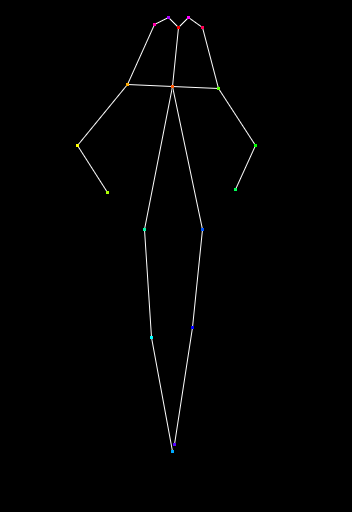
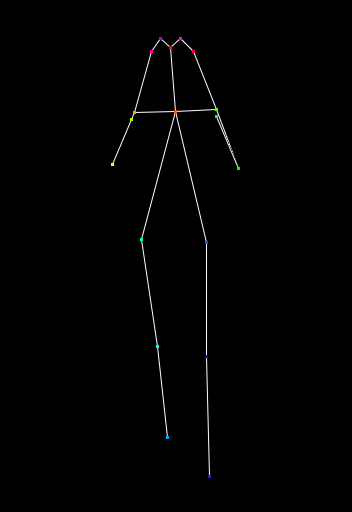
512 no background + agmentattion

diff --git a/datasets/custom_dataset.py b/datasets/custom_dataset.py
@@ -56,7 +56,8 @@ class PairDataset(data.Dataset):
         self.crop_size = opt.crop_size
         annotation_index_csv = os.path.join(self.dataroot, 'annotation_index_qanet.csv')
         annotation_pairs_csv = os.path.join(self.dataroot, 'annotation_pairs_qanet.csv')
-
+        # annotation_index_csv = os.path.join(self.dataroot, 'annotation_index.csv')
+        # annotation_pairs_csv = os.path.join(self.dataroot, 'annotation_pairs.csv')
         self.do_flip=True
 
         # group;pair1;pair2
@@ -77,8 +78,8 @@ class PairDataset(data.Dataset):
     
     def __getitem__(self, index):
         from_name, to_name = self.pairs_df.iloc[index][['from','to']].to_list()
-        from_img, from_kpt, from_parse = self.load_data(from_name)
-        to_img, to_kpt, to_parse = self.load_data(to_name)
+        from_img, from_kpt, from_parse = self.load_data(from_name, do_augm=True)
+        to_img, to_kpt, to_parse = self.load_data(to_name, do_augm=True)
         if self.do_flip:
             make_flip = random.random() > 0.5
             if make_flip:
@@ -90,20 +91,26 @@ class PairDataset(data.Dataset):
                 to_parse = torch.flip(to_parse, [1])
                 to_kpt = torch.flip(to_kpt, [2])[[0,1,5,6,7,2,3,4,11,12,13,8,9,10,15,14,17,16],...]
         # Image.fromarray((np.transpose(from_img,(1,2,0)).numpy()*127+127).astype(np.uint8),'RGB').save('image.jpg');Image.fromarray(from_parse.numpy()*20).save('maskk.png')
+        # Image.fromarray((from_parse.numpy()*20).astype(np.uint8)).save('seg.png')
+        # Image.fromarray(_view_pose(from_kpt)).save('pose.png')
+        # Image.fromarray((from_img.permute([1,2,0]).numpy()*127 + 127).astype(np.uint8)).save('img.png')
+
         return from_img, from_kpt, from_parse, to_img, to_kpt, to_parse, index #torch.Tensor([0])
 
 
-    def load_data(self, name):
+    def load_data(self, name, do_augm=False):
         seg = np.array(Image.open(name + ".seg_qanet.render.png"))
         img = cv2.imread(name)[:,:,[2,1,0]]
         pose_y_str,pose_x_str = self.index_df.loc[name][['keypoints_y', 'keypoints_x']].to_list()
         pose_array = pose_utils.load_pose_cords_from_strings(pose_y_str, pose_x_str)
-        affine_transform = PairDataset._get_affine_stransform(self.crop_size, img.shape[0],img.shape[1])
+        affine_transform = PairDataset._get_affine_stransform(self.crop_size, img.shape[0],img.shape[1], do_augm)
 
         dstSize = (self.crop_size[1],self.crop_size[0])
         resized_img = cv2.bilateralFilter(cv2.warpAffine(img, affine_transform[:2],dstSize, 
             flags=cv2.INTER_AREA,
             borderMode=cv2.BORDER_CONSTANT, borderValue=(0,0,0)),d=5,sigmaColor=15, sigmaSpace=15).astype(np.uint8)
+        Image.fromarray(resized_img).save('img.png')
+
         # Image.fromarray(cv2.bilateralFilter(cv2.warpAffine(img, affine_transform[:2],dstSize, 
         #     flags=cv2.INTER_AREA,
         #     borderMode=cv2.BORDER_CONSTANT, borderValue=(0,0,0)),d=5,sigmaColor=11, sigmaSpace=24).astype(np.uint8),'RGB').save('image3.jpg')
@@ -132,13 +139,19 @@ class PairDataset(data.Dataset):
         # cv2.imwrite('pose.jpg',np.sum(pose, axis=-1)*127)
         pose = np.transpose(pose,(2, 0, 1))
         # resized_img = np.transpose(resized_img,(2, 0, 1))
+
+
+        # augmenation remove bg 
+        resized_img =_remove_bg(resized_img, (redused_seg==SEG.ID['background']).astype(np.uint8))
+
         img_tensor, pose_tensor, seg_tensor = self.transforms(resized_img), torch.Tensor(pose), torch.Tensor(redused_seg)
         # Image.fromarray((img_tensor.permute([1,2,0]).numpy()*127 + 127).astype(np.uint8)).save('img.png')
-        # Image.fromarray((torch.flip(img_tensor, [2]).permute([1,2,0]).numpy()*127 + 127).astype(np.uint8)).save('img_flip.png')
+        # # Image.fromarray((torch.flip(img_tensor, [2]).permute([1,2,0]).numpy()*127 + 127).astype(np.uint8)).save('img_flip.png')
         # Image.fromarray((seg_tensor.numpy()*20).astype(np.uint8)).save('seg.png')
-        # Image.fromarray(( torch.flip(seg_tensor, [1]).numpy()*20).astype(np.uint8)).save('seg_flip.png')
+        # # Image.fromarray(( torch.flip(seg_tensor, [1]).numpy()*20).astype(np.uint8)).save('seg_flip.png')
         # Image.fromarray(_view_pose(pose_tensor)).save('pose.png')
-        # Image.fromarray(_view_pose(torch.flip(pose_tensor, [2])[[0,1,5,6,7,2,3,4,11,12,13,8,9,10,15,14,17,16],...])).save('pose_flip.png')
+        # # Image.fromarray(_view_pose(torch.flip(pose_tensor, [2])[[0,1,5,6,7,2,3,4,11,12,13,8,9,10,15,14,17,16],...])).save('pose_flip.png')
+
         return img_tensor, pose_tensor, seg_tensor
 
     @staticmethod
@@ -150,35 +163,17 @@ class PairDataset(data.Dataset):
         return texture_mask
         
     @staticmethod
-    def _get_affine_stransform(crop_size, img_height, img_width):
+    def _get_affine_stransform(crop_size, img_height, img_width, do_augm = False):
         fit_height, fit_width = crop_size[0], crop_size[1]
         center = img_height * 0.5 + 0.5, img_width * 0.5 + 0.5
-        do_flip, angle, shift, scale = 0, 0, (0,0), 1 #np.random.uniform(low=0.8, high=1.1)        
+        do_flip, angle, shift, scale = 0, 0, [0,0], 1
+        # heavy augmentation
+        if do_augm:
+            do_flip, angle, shift, scale = 0, 0, [np.random.uniform(low=-0.05, high=0.05),0], np.random.uniform(low=0.8, high=1.2) 
+            # do_flip, angle, shift, scale = 0, 0, [0.1,0], 1.2       
         affine_matrix = PairDataset.get_affine_matrix(center=center, fit=(fit_height, fit_width), angle=angle, translate=shift,
                 scale=scale, flip=do_flip)
         return affine_matrix
-
-
-    # def getRandomAffineParam(self):
-    #     if self.opt.angle is not None:
-    #         angle = np.random.uniform(low=self.opt.angle[0], high=self.opt.angle[1])
-    #     else:
-    #         angle = 0
-    #     if self.opt.scale is not None:
-    #         scale   = np.random.uniform(low=self.opt.scale[0], high=self.opt.scale[1])
-    #     else:
-    #         scale=1
-    #     if self.opt.shift is not None:
-    #         shift_x = np.random.uniform(low=self.opt.shift[0], high=self.opt.shift[1])
-    #         shift_y = np.random.uniform(low=self.opt.shift[0], high=self.opt.shift[1])
-    #     else:
-    #         shift_x=0
-    #         shift_y=0
-    #     if self.opt.flip:
-    #         do_flip = np.random.choice([False, True])
-    #     else:
-    #         do_flip = False
-    #     return do_flip, angle, (shift_x,shift_y), scale
 
 
     @staticmethod
@@ -193,8 +188,9 @@ class PairDataset(data.Dataset):
         FIT_scale = np.float32([[fit_scale, 0, 0], [0, fit_scale, 0]])
         
         M_scale = np.float32([[scale, 0, 0], [0, scale, 0]])
-
-        M_translate = np.float32([[1, 0, translate[0]*fit[0]], [0, 1, translate[1]*fit[1]]])
+        # 0.02 fix coef for bad segmentation
+        translate[1] = (1-2* fit_scale* center[0]*scale / fit[0])+0.02
+        M_translate = np.float32([[1, 0, translate[0]*fit[1]], [0, 1, translate[1]*fit[0]]])
         # M_translate = np.float32([[1, 0, -(center[1]*2*fit_scale - fit[1])*scale], [0, 1, (1-scale) * fit[0]]])
 
         rads = math.radians(angle)
@@ -377,6 +373,10 @@ class VisualDataset(data.Dataset):
         # cv2.imwrite('pose.jpg',np.sum(pose, axis=-1)*127)
         pose = np.transpose(pose,(2, 0, 1))
         # resized_img = np.transpose(resized_img,(2, 0, 1))
+
+        # augmenation remove bg 
+        resized_img =_remove_bg(resized_img, (redused_seg==SEG.ID['background']).astype(np.uint8))
+
         img_tensor, pose_tensor, seg_tensor = self.transforms(resized_img), torch.Tensor(pose), torch.Tensor(redused_seg)
         # Image.fromarray((img_tensor.permute([1,2,0]).numpy()*127 + 127).astype(np.uint8)).save('img.png')
         # Image.fromarray((torch.flip(img_tensor, [2]).permute([1,2,0]).numpy()*127 + 127).astype(np.uint8)).save('img_flip.png')
@@ -417,3 +417,16 @@ def _view_pose(pose):
     coords = map_to_cord(pose.cpu().permute(1,2,0).numpy())
     pose_img = draw_pose_from_cords(coords,(H,W))[0]
     return pose_img
+
+
+def _remove_bg(img, bg_mask, bg_color = [255,249,249]):
+    bg_kernel = (3, 3)
+    # bg_color = [234,230,224]    
+    eroded_mask = cv2.dilate(bg_mask,np.ones(bg_kernel),iterations=1) #Image.fromarray((eroded_mask*255).astype(np.uint8)).save('mask.png')
+    eroded_mask = cv2.morphologyEx(eroded_mask, cv2.MORPH_OPEN, np.ones(bg_kernel, np.uint8))
+    blurred_mask = cv2.GaussianBlur(eroded_mask.astype(np.float),bg_kernel,0) #Image.fromarray((blurred_mask*255).astype(np.uint8)).save('mask.png')
+    # blurred_img = cv2.blur(img.astype(np.float),(5,5),0)  #Image.fromarray((blurred_img).astype(np.uint8)).save('mask.png')
+    bg_img = np.ones_like(img)*bg_color
+    final_img = img * (1-blurred_mask[...,None]) + blurred_mask[...,None] * bg_img
+    # Image.fromarray((final_img ).astype(np.uint8)).save('mask.png')
+    return final_img.astype(np.uint8)

diff --git a/dressing_processor.py b/dressing_processor.py
@@ -15,10 +15,10 @@ import os
 import sys
 sys.path.append(os.path.abspath(os.path.dirname(__file__)))
 os.chdir(os.path.abspath(os.path.dirname(__file__)))
-CUDA_DEVICE= 'cuda:0'
+CUDA_DEVICE= 'cuda:1'
 torch.cuda.set_device(CUDA_DEVICE)
 logging.basicConfig(level = logging.INFO)
-from datasets.custom_dataset import SEG, PairDataset, get_palette
+from datasets.custom_dataset import SEG, PairDataset, get_palette, _view_pose
 from models.customdior_model import CustomDIORModel
 from utils import pose_utils
 
@@ -76,11 +76,12 @@ def get_model_params():
     opt.norm_type = 'instance'; opt.relu_type = 'leakyrelu'
     opt.init_type = 'orthogonal'; opt.init_gain = 0.02; 
     opt.random_rate = 1; opt.perturb = False; opt.warmup=False; opt.verbose = False
-    opt.name = "dior_custom_512_deepfashion"
+    # opt.name = "dior_custom_512_deepfashion_1"
+    opt.name = "dior_custom_512_deepfashion_2_aug_nobg"
     opt.checkpoints_dir = 'checkpoints'; opt.vgg_path = ''; opt.flownet_path = ''; 
     opt.frozen_enc = True; opt.frozen_flownet = True;
     opt.load_iter = 0; opt.epoch = 'latest'
-    opt.gpu_ids = []
+    opt.gpu_ids = [1]
     return opt
 
 # # 256x176 res
@@ -191,29 +192,33 @@ def crop2box(im, box=(256,176)):
 
 def preprocess_image(image_file):
     image_array = np.zeros((*IMG_DEFAULT_SIZE,3),dtype=np.uint8)
-    im = cv2.imread(image_file)[:,:,[2,1,0]]
+    image_rgb = cv2.imread(image_file)[:,:,[2,1,0]]
 
-    im = resize2box(im, IMG_DEFAULT_SIZE, [0,0,0])
-    # im = crop2box(im, (200,100))
+    # get person bbox
+    #     curl -X 'POST' \
+    #   'http://localhost:8010/boxes' \
+    #   -H 'accept: application/json' \
+    #   -H 'Content-Type: multipart/form-data' \
+    #   -F 'upload_file=@000057_0.jpg;type=image/jpeg'
+    with open(image_file, 'rb') as f:
+        files = {'upload_file': f}
+        response = requests.post('http://localhost:8010/boxes', files=files)
+        if response.status_code == 200:
+            json = response.json()
+            bboxes = json['bboxes']
+    
+    assert len(bboxes)>0
+    box=bboxes[0]
+    width, height = image_rgb.shape[1], image_rgb.shape[0]
+    # Image.fromarray(image_rgb[int(pred_boxes[0][0][1]):int(pred_boxes[0][1][1]),int(pred_boxes[0][0][0]):int(pred_boxes[0][1][0]),...]).save("box_img.png")
+    # 384, 512
+    margin_y, margin_x = (box[2] - box[0])*0.05, (box[3] - box[1])*0.05
+    box_img_array = image_rgb[int(max(box[1]-margin_y, 0)):int(min(box[3]+margin_y,height)),
+        int(max(box[0]-margin_x, 0)):int(max(box[2]+margin_x,width)),...]
 
-    # # Image.fromarray(cv2.imread(image_file)[:,:,[2,1,0]]).resize((192,256),Image.LANCZOS).save('img.jpg')
-    # if im.shape[0]>IMG_DEFAULT_SIZE[0] or im.shape[1]>IMG_DEFAULT_SIZE[1]:
-    #     ratio = min(IMG_DEFAULT_SIZE[0]/im.shape[0], IMG_DEFAULT_SIZE[1]/im.shape[1])
-    #     im =np.array(Image.fromarray(im).resize((int(ratio*im.shape[1]),int(ratio*im.shape[0])),Image.LANCZOS))
-    #     # .save('img.jpg')
-    #     # im = cv2.resize(cv2.blur(im,(3,3)),(int(ratio*im.shape[1]),int(ratio*im.shape[0])),cv2.INTER_LANCZOS4)
 
-    # h_start = (IMG_DEFAULT_SIZE[0]-im.shape[0])//2 
-    # w_start = (IMG_DEFAULT_SIZE[1]-im.shape[1])//2
-    # image_array[h_start:h_start+im.shape[0],
-    #         w_start:w_start+im.shape[1],...] = im 
-    # with Image.open(image_file) as im:
-    #     if im.size[1]>IMG_DEFAULT_SIZE[0] or im.size[0]>IMG_DEFAULT_SIZE[1]:
-    #         im.thumbnail(list(reversed(IMG_DEFAULT_SIZE)))
-    #     h_start = (IMG_DEFAULT_SIZE[0]-im.size[1])//2 
-    #     w_start = (IMG_DEFAULT_SIZE[1]-im.size[0])//2
-    #     image_array[h_start:h_start+im.size[1],
-    #         w_start:w_start+im.size[0],...] = np.array(im)
+    im = resize2box(box_img_array, IMG_DEFAULT_SIZE, [0,0,0])
+    
     Path(TEMP_DIR).mkdir(parents=True, exist_ok=True)
     new_image_file = os.path.join(TEMP_DIR, 
         ''.join(random.choice('abcdefgh') for i in range(4))+'_'+ Path(image_file).name)
@@ -285,12 +290,30 @@ def get_data_from_image(image_file):
     pose = np.transpose(pose,(2, 0, 1))
 
     img = np.array(im)
-    #remove bg
-    img[redused_seg==SEG.ID['background'],:] = [234,230,224]
-    img_tensor = img_transforms(img)
-
+    #remove bg ####################################################################
+    # img[redused_seg==SEG.ID['background'],:] = [234,230,224]
+    # Image.fromarray((cv2.blur((redused_seg==SEG.ID['background']).astype(np.float),(5,5),0)*254).astype(np.uint8)).save('mask.png')
+    bg_kernel = (3, 3)
+    # bg_color = [234,230,224]
+    bg_color = [255,249,249]
+    bg_mask = (redused_seg==SEG.ID['background']).astype(np.uint8) #Image.fromarray((bg_mask*255).astype(np.uint8)).save('mask.png')
+    eroded_mask = cv2.dilate(bg_mask,np.ones(bg_kernel),iterations=1) #Image.fromarray((eroded_mask*255).astype(np.uint8)).save('mask.png')
+    eroded_mask = cv2.morphologyEx(eroded_mask, cv2.MORPH_OPEN, np.ones(bg_kernel, np.uint8))
+    blurred_mask = cv2.GaussianBlur(eroded_mask.astype(np.float),bg_kernel,0) #Image.fromarray((blurred_mask*255).astype(np.uint8)).save('mask.png')
+    # blurred_img = cv2.blur(img.astype(np.float),(5,5),0)  #Image.fromarray((blurred_img).astype(np.uint8)).save('mask.png')
+    bg_img = np.ones_like(img)*bg_color
+    final_img = img * (1-blurred_mask[...,None]) + blurred_mask[...,None] * bg_img
+    Image.fromarray((final_img ).astype(np.uint8)).save('mask.png')
+    img = final_img.astype(np.uint8)
+    ###############################################################################
     
+    img_tensor = img_transforms(img)
+    mask_image=Image.fromarray(redused_seg);mask_image.putpalette(get_palette(len(SEG.ID)));mask_image.save('seg.png')
+    image_image=Image.fromarray((img_tensor.permute([1,2,0]).numpy()*127 + 127).astype(np.uint8));image_image.save('img.png')
+    pose_image=Image.fromarray(_view_pose(torch.Tensor(pose)));pose_image.save('pose.png')
+    Image.blend(Image.blend(mask_image.convert("RGBA"),image_image.convert("RGBA"),0.5), pose_image.convert("RGBA"),0.5).save('input.png')
     return img_tensor, torch.Tensor(pose), torch.Tensor(redused_seg)
+
 
 
 def dress_garment(image_file, garment_file, GARMENT_IDS:List[int]):
@@ -304,9 +327,24 @@ def dress_garment(image_file, garment_file, GARMENT_IDS:List[int]):
     s_img = source_img.permute([1,2,0]).numpy()*127 + 127
     g_img = garment_img.permute([1,2,0]).numpy()*127 + 127
     new_image_arr = np.array(new_image)
-    new_image_arr[source_parse == SEG.ID['face'],:]=s_img[source_parse == SEG.ID['face']]
+
+    ##############################################################################################################
+    # new_image_arr[source_parse == SEG.ID['face'],:]=s_img[source_parse == SEG.ID['face']]
+    bg_kernel = (5, 5)
+    # bg_color = [234,230,224]
+    bg_mask = (source_parse.numpy() == SEG.ID['face']).astype(np.uint8) #Image.fromarray((bg_mask*255).astype(np.uint8)).save('mask.png')
+    eroded_mask = cv2.erode(bg_mask,np.ones(bg_kernel),iterations=1) #Image.fromarray((eroded_mask*255).astype(np.uint8)).save('mask.png')
+    # eroded_mask = cv2.morphologyEx(eroded_mask, cv2.MORPH_OPEN, np.ones(bg_kernel, np.uint8))
+    blurred_mask = cv2.blur(eroded_mask.astype(np.float),bg_kernel,0) #Image.fromarray((blurred_mask*255).astype(np.uint8)).save('mask.png')
+    # blurred_img = cv2.blur(img.astype(np.float),(5,5),0)  #Image.fromarray((blurred_img).astype(np.uint8)).save('mask.png')
+    final_img = new_image_arr * (1-blurred_mask[...,None]) + blurred_mask[...,None] * s_img
+    Image.fromarray((final_img ).astype(np.uint8)).save('mask.png')
+    new_image_arr = final_img.astype(np.uint8)
+
+
     # new_image_arr[source_parse == SEG.ID['hair'],:]=s_img[source_parse == SEG.ID['hair']]
-    Image.fromarray(np.concatenate((new_image_arr,s_img,g_img),1).astype(np.uint8)).save('img.jpg')
+
+    Image.fromarray(np.concatenate((s_img,g_img,new_image_arr),1).astype(np.uint8)).save('img.jpg')
     print('ss')
     return Image.fromarray(new_image_arr)
 

diff --git a/train.py b/train.py
@@ -43,10 +43,15 @@ def main():
     opt.square = False
     # dataset = create_dataset(opt)  # create a dataset given opt.dataset_mode and other options
     dataset = PairDataset(opt)
+
+    # dataset.load_data('/home/deeplab/datasets/deepfashion/diordataset_custom/img_highres/WOMEN/Tees_Tanks/id_00003241/02_2_side.jpg', do_augm=True)
+    # '/home/deeplab/datasets/custom_fashion/data/wildberries_ru_/1743/17430312/17430312-2.jpg'
+
     dataset = torch.utils.data.DataLoader(dataset, batch_size=opt.batch_size, shuffle=(opt.phase == 'train'),
         num_workers=opt.n_cpus, pin_memory=True, prefetch_factor=10)
     dataset_size = len(dataset)    # get the number of images in the dataset.
     print('The number of training images = %d' % dataset_size)
+
     # dataset = torch.utils.data.DataLoader(PairDataset(opt), batch_size=opt.batch_size, shuffle=False,
     #     num_workers=opt.n_cpus, pin_memory=True, prefetch_factor=10)
     # for i,data in enumerate(dataset):
@@ -54,6 +59,7 @@ def main():
     #     print(i)
     #     if i>10:break
     # visual_ds = create_visual_ds('PairDataset')
+
     visual_ds = VisualDataset(Path('/home/deeplab/datasets/deepfashion/diordataset_custom/standard_test_anns.txt'), dim = opt.crop_size)
     
     # set up model

diff --git a/models/customdior_model.py b/models/customdior_model.py
@@ -150,7 +150,7 @@ class CustomDIORModel(DIORBaseModel):
             if self.perturb:
                 img = self.perturb_images(img)
             self.from_img = img
-            self.from_pase = self.to_parse
+            self.from_parse = self.to_parse
             self.from_kpt = self.to_kpt
             if self.warmup:
                 z = self.netE_attr(img, self.netVGG)
